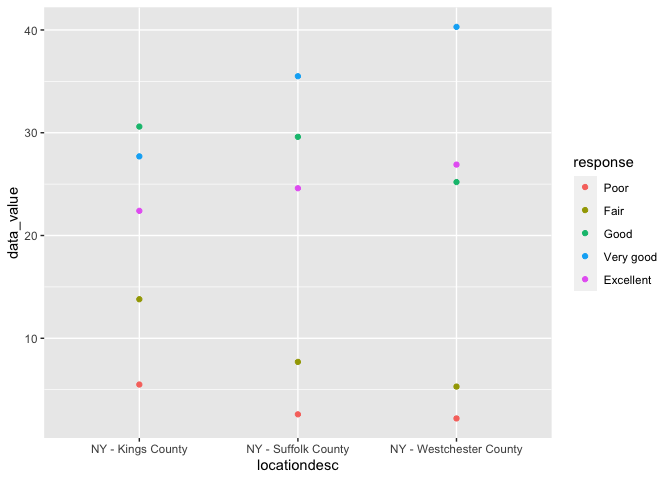
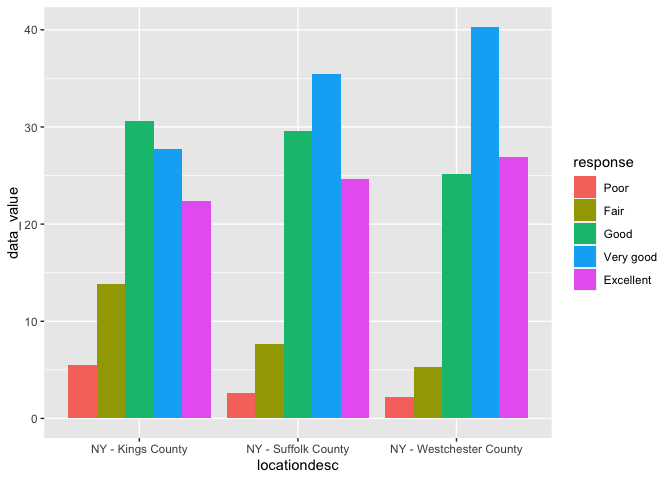
trying out different plots for problem 2

diff --git a/p8105_hw3_yj2803.md b/p8105_hw3_yj2803.md
@@ -217,7 +217,7 @@ data("brfss_smart2010") # call BRFSS data from the library
 ``` r
 df_brfss_cleaned <- brfss_smart2010 |> 
   janitor::clean_names() |> 
-  filter(topic == "Overall Health" & response == c("Excellent", "Very good", "Good", "Fair", "Poor")) |>  # focus on Overall Health; only include responses from "Excellent" to "Poor"
+  filter(topic == "Overall Health" & response %in% c("Excellent", "Very good", "Good", "Fair", "Poor")) |>  # focus on Overall Health; only include responses from "Excellent" to "Poor"
   mutate(
     response = factor(response, levels = c("Poor", "Fair", "Good", "Very good", "Excellent")) # change response as factor taking levels ordered from “Poor” to “Excellent”
   )
@@ -231,19 +231,19 @@ df_brfss_cleaned <- brfss_smart2010 |>
 df_brfss_2002 <- df_brfss_cleaned |> 
   filter(year == 2002) |>  # filter by year 
   group_by(locationabbr) |> # group by states
-  summarise(count = n()) |> # count number of observations in each state
+  summarise(count = n() / 5) |> # count number of observations in each state
   filter(count >= 7) # show states which have >= 7 locations
 
 # check 2010
 df_brfss_2010 <- df_brfss_cleaned |> 
   filter(year == 2010) |>  # filter by year 
   group_by(locationabbr) |> # group by states
-  summarise(count = n()) |> # count number of observations in each state
+  summarise(count = n() / 5) |> # count number of observations in each state
   filter(count >= 7) # show states which have >= 7 locations
 ```
 
-7 or more locations were observed in GA, MA, ME, NJ, OH, PA, RI in 2002;
-CA, CO, FL, ID, MA, MD, ME, NC, NY, OH, PA, SC, TN, TX, UT in 2010.
+7 or more locations were observed in CT, FL, MA, NC, NJ, PA in 2002; CA,
+CO, FL, MA, MD, NC, NE, NJ, NY, OH, PA, SC, TX, WA in 2010.
 
 - Construct a dataset that is limited to `Excellent` responses, and
   contains, year, state, and a variable that averages the `data_value`
@@ -293,19 +293,26 @@ df_ny_2010 <- df_brfss_cleaned |>
   filter(locationabbr == "NY" & year == 2010)  # only include 2006 data in NY
   
 # plot for 2006
-df_ny_2006 |> 
-  ggplot(aes(x = locationdesc, y = data_value, color = response)) +
-  geom_point() 
+p_ny_2006 = df_ny_2006 |> 
+  ggplot(aes(x = locationdesc, y = data_value)) +
+  geom_violin(aes(fill = locationdesc), color = "blue", alpha = .5) +
+  theme(legend.position = "bottom", axis.text.x = element_text(angle = 90)) + # change the legend location
+  labs(
+    title = "2006",
+    x = "Location",
+  )  
+
+# plot for 2010
+p_ny_2010 = df_ny_2010 |> 
+  ggplot(aes(x = locationdesc, y = data_value, fill = response)) +
+  geom_bar(stat = "identity", position = "dodge") +
+  theme(legend.position = "bottom", axis.text.x = element_text(angle = 90)) + # change the legend location
+  labs(
+    title = "2010",
+    x = "Location",
+  ) 
+
+p_ny_2006 + p_ny_2010 # put two plots side by side
 ```
 
 ![](p8105_hw3_yj2803_files/figure-gfm/unnamed-chunk-14-1.png)<!-- -->
-
-``` r
-
-# plot for 2010
-df_ny_2010 |> 
-  ggplot(aes(x = locationdesc, y = data_value, color = response)) +
-  geom_point() 
-```
-
-![](p8105_hw3_yj2803_files/figure-gfm/unnamed-chunk-14-2.png)<!-- -->
